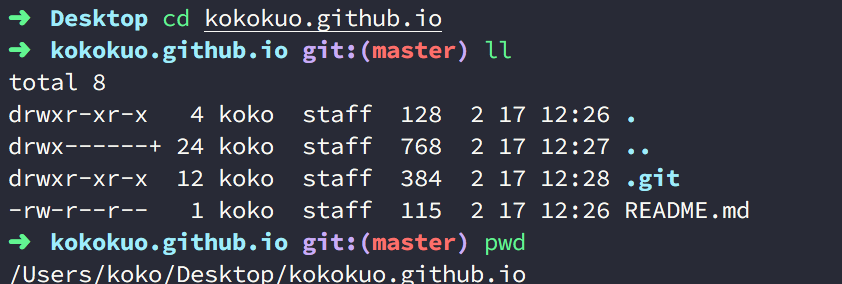
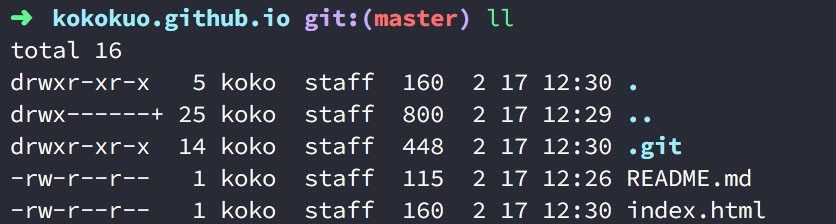
完成 「透過 Github Page 架設個人靜態網站」 第二段的第一部分 - 透過終端機 Terminal 指令上傳檔案

diff --git a/content/posts/20190208-build-static-website-to-github-page.md b/content/posts/20190208-build-static-website-to-github-page.md
@@ -61,9 +61,11 @@ TODO 在[什麼是靜態網站 (Static Site) 與 靜態網站產生器 (Static S
 
 如上所述，我們建立一個簡單的 HTML 檔案，並且輸入要 Commit 的描述與內容，來完成建立。
 
-這邊稍微提一下，所謂的 Commit 表示提交，也就是提交此次新增、編輯或刪除的動作，而 Git 版本控管會記錄你每一次的 Commit，換句話說就是紀錄你每次的修改，有點像是遊戲的存擋，或是 Google 文件與 Word 會記錄你每次的新增、編輯或刪除的動作，因此未來你也可以讀取回到原先的動作與紀錄。
+這邊稍微提一下，所謂的 Commit 表示提交，也就是提交此次新增、編輯或刪除的動作，而 Git 版本控管會記錄你每一次的 Commit，換句話說就是紀錄你每次的修改，有點像是遊戲的存擋，或是 Google 文件與 Word 會記錄你每次的新增、編輯或刪除的動作，因此未來你也可以讀取回到原先的動作與紀錄，這又稱作 **「版本控制系統」**。
 
-至於想要深入了解的人可以查一查 **Git 版本控管系統** 的用途。
+而整個 Github 的服務都是以 **Git** 這套版本控制系統為核心的，所以不管是架設 Github Page 還是把程式碼放到 Repository 上都需要稍微了解一下 **Git 版本控制系統** ，而同時 **Git 版本控制系統** 也是目前全世界最多人用的版本控制系統。
+
+若想要深入了解的人可以查一查 **Git 版本控管系統** 的用途。
 
 上傳完後，會看到以下的檔案內容：
 
@@ -83,6 +85,10 @@ TODO 在[什麼是靜態網站 (Static Site) 與 靜態網站產生器 (Static S
 ## 1. 透過終端機 Terminal 指令上傳檔案
 由於本人使用的是 Mac ，所以我們採用 **Homebrew** 下載，不曉得 Homebrew 的人可以看一下我的這篇文章 TODO [Homebrew (1) - Mac 上安裝 Homebrew 套件管理工具]()
 
+首先我們要安裝 `git` 這個指令工具，`git` 也就是前面提到的「版本控制系統」，而由於在 Github 上其網站的核心與提供的功能都已經包含，所以不用特別安裝。
+
+但是在我們自己的電腦上，為了可以跟 Github 溝通並上傳檔案，所以需要安裝，不過因為 `git` 這套系統其實只需要指令就可以執行，所以在 Mac 上我們可以直接以指令工具的形式安裝即可。
+
 ```bash
 > brew install git
 ```
@@ -100,7 +106,7 @@ Desktop/> git clone https://github.com/kokokuo/kokokuo.github.io.git
 
 ![git-clone-repository](../images/20190208-build-static-website-to-github-page/git-clone-repository.png)
 
-此時你便可以發下  `koko.github.io` 這個目錄與檔案被抓下來：
+此時你便可以發現  `koko.github.io` 這個目錄與檔案被抓下來：
 
 ![show-clone-repository](../images/20190208-build-static-website-to-github-page/show-clone-repository.png)
 
@@ -112,13 +118,45 @@ Desktop/> git clone https://github.com/kokokuo/kokokuo.github.io.git
 設定 `about.html` 的連結：
 ![add-about-link](../images/20190208-build-static-website-to-github-page/add-about-link.png)
 
-再來我們把修改過的結果往 `kokokuo.github.io` 的 Repository 丟上去。
+再來我們把修改過的結果往 `kokokuo.github.io` 的 Repository 丟上去，透過以下幾個指令：
+
 
 ```bash
-Desktop/(master)> add .
+Desktop/(master)> git status
+Desktop/(master)> git add .
 Desktop/(master)> git config local --email "你註冊的 Github 信箱"
 Desktop/(master)> git config local --name "你註冊的 Github 用戶名稱 Username"
 Desktop/(master)> commit -m "加入 about.html 並從 inde.html 建立 Link 到 about.html"
+Desktop/(master)> push origin master
 ```
+
+這邊來稍微介紹一下上述這些指令的用途，首先是 `git status` ，這個可以透來檢查目前你做了哪些修改，所以他你輸入後，你會看到如下圖，紀錄了我們修改一個檔案 `index.html` ，另外有一個是新加入還沒有被紀錄追蹤的檔案 `about.html`：
+
+![git-status](../images/20190208-build-static-website-to-github-page/git-status.png)
+
+然後 `git add` 就可以用來告訴 Git 哪些變更的動作要被放到暫存區準備提交保存的，其中 `git add .` 表示所有變更的動作都要保存：
+
+![git-check-add-statue](../images/20190208-build-static-website-to-github-page/git-check-add-statue.png)
+
+接著透過 `git config local --email` 與 `git config local --name` 來設定在我們這個本機上對這個專案變更的用戶是誰，另外若設定的用戶名稱與 Email 是 Github 上註冊過的帳戶，上傳後還會顯示這個帳號在 Github 的資訊與連結哦！
+
+設定完後再透過 `git commit` 把剛剛因為 `git add` 指令，放到暫存區的所有變更動作提交保存，這樣未來要是出了什麼問題，只要本機上的整個專案目錄不刪除，都能回到之前的版本哦。
+
+最後我們以 `git push origin master` 指令把這些提交變更上傳到我們剛剛抓下來的 Github Repository 上傳回去 Github Repository：
+
+![git-push-master](../images/20190208-build-static-website-to-github-page/git-push-master.png)
+
+接著我們回到 Github Page 存放的 Repository ，此時修改與新的檔案已經在此，輸入 https://kokokuo.github.io 也能看到新的內容出現了！
+
+![updated-repository](../images/20190208-build-static-website-to-github-page/updated-repository.png)
+
+![new-index-html](../images/20190208-build-static-website-to-github-page/new-index-html.png)
+
+![new-about-html](../images/20190208-build-static-website-to-github-page/new-about-html.png)
+
+而且使用 `git push` 指令上傳到 Github Repository 還能幫忙備份檔案，讓你在本機上刪除專案目錄後，也能再次下載還原，一舉數得。
+
+好的，到此完成使用 **Terminal 終端機與指令** 上傳與架設靜態 Github Page 網站囉，再來我們要介紹比較簡單的 **Github Desktop** ，讓不熟悉或懼怕指令的朋友們也能輕鬆上手。
+
 
 ## 2. 透過 Github Desktop 軟體上傳靜態網站的檔案
